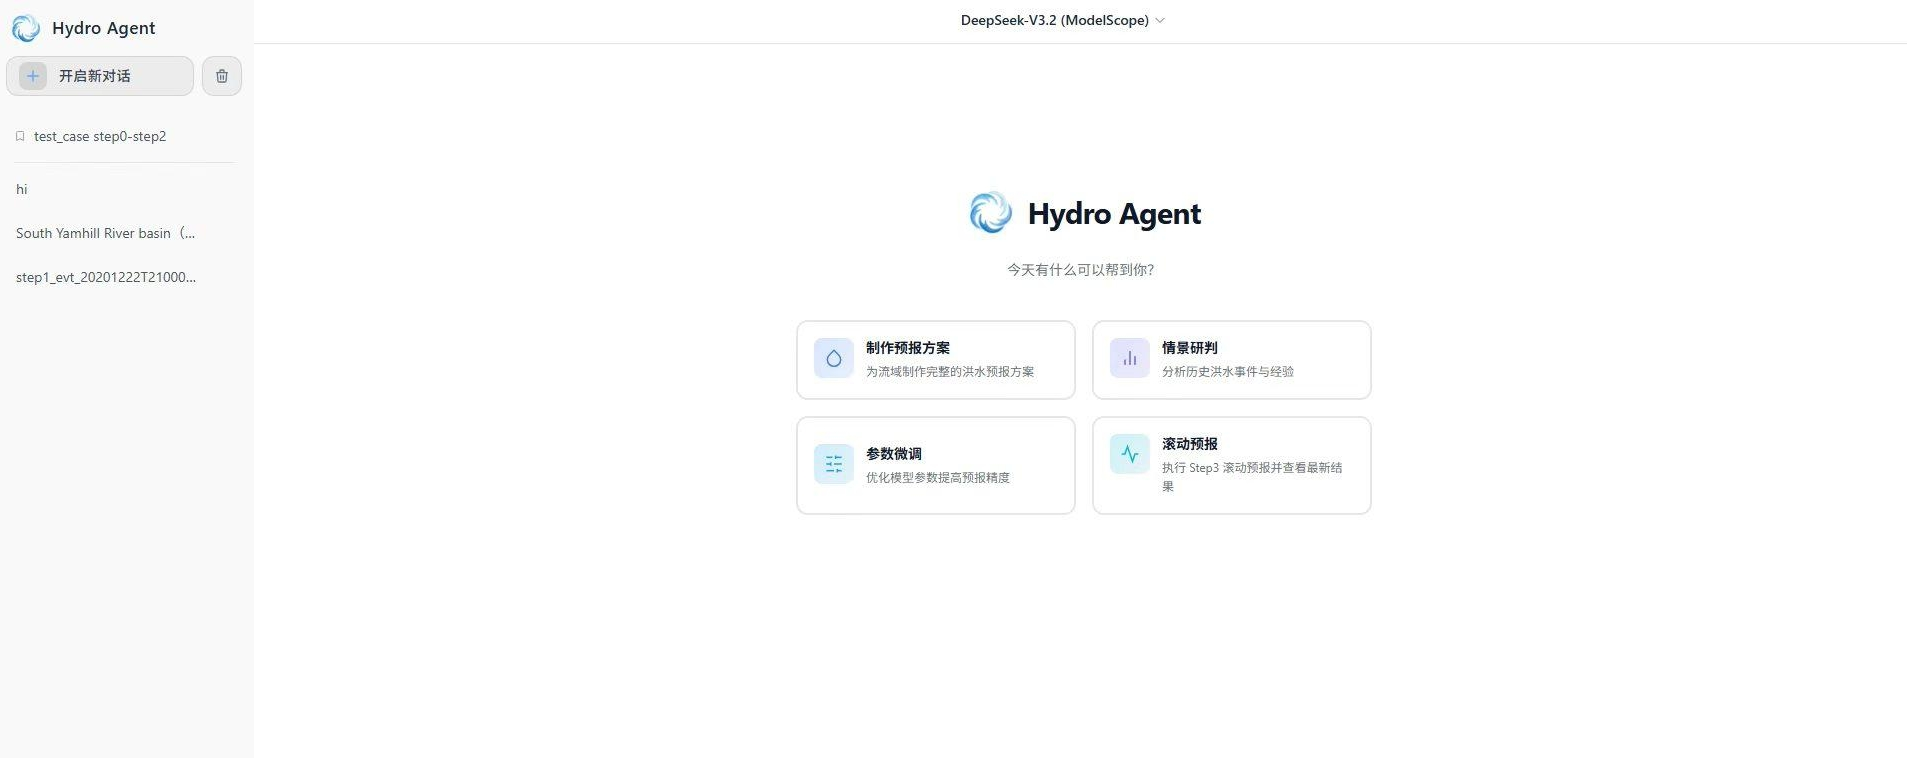
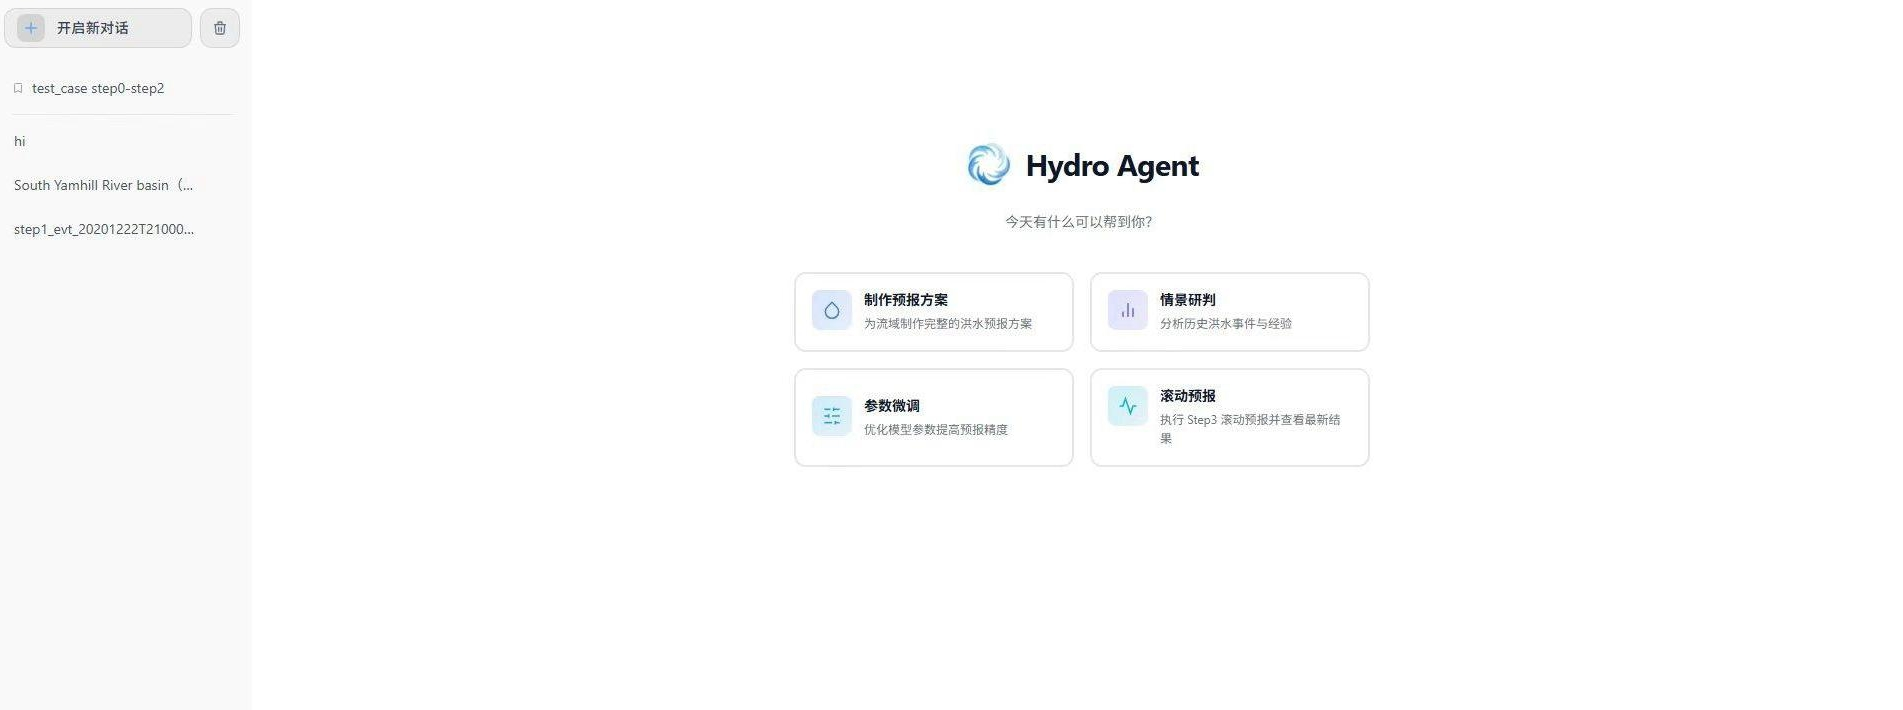
手机端hero区域demo位置

diff --git a/styles/hero.css b/styles/hero.css
@@ -311,23 +311,11 @@
 
 /* --- Responsive --- */
 @media (max-width: 900px) {
-  /* Same two-image composition as desktop: both .hero-video-bg and
-     .hero-bottom-bar inherit the base transforms (no mobile overrides),
-     so the layout matches the desktop hero. */
-
-  /* White scrim, strongest at the bottom where the text sits */
-  .brand-hero-scrim {
-    background: linear-gradient(
-      to top,
-      rgba(255, 255, 255, 0.95) 0%,
-      rgba(255, 255, 255, 0.8) 40%,
-      rgba(255, 255, 255, 0.4) 70%,
-      rgba(255, 255, 255, 0.15) 100%
-    );
-  }
-
+  /* Overlay layout: image as full-bleed background, buttons bottom-left,
+     the four function cards weighted to the right, and the left→right
+     gradient blur (inherited from base: scrim + .brand-hero::after). */
   .hero-copy {
-    padding: 0 14px 32px;
+    padding: 0 16px 40px;
     max-width: 100%;
   }
 
@@ -335,13 +323,15 @@
     font-size: 1.75rem;
   }
 
-  /* Shift both images left on mobile (base shifts them right for desktop) */
+  /* Scale up a touch; shift so the cards sit to the right of the buttons
+     and the bottom of the UI meets the buttons. */
   .hero-video-bg {
-    transform: scale(0.95) translateX(-5%);
+    transform: scale(1.15) translateX(12%) translateY(5%);
+    transform-origin: 30% center;
   }
 
   .hero-bottom-bar {
-    transform: scale(0.95) translateX(-3%) translateY(-25%);
+    transform: scale(1.15) translateX(12%) translateY(-25%);
   }
 
   .hero-video-tag {

diff --git a/WORKLOG.md b/WORKLOG.md
@@ -227,6 +227,20 @@ Hero 图片源 `webui_light.jpg` → `webui_black.jpg`。注意：左侧白色 s
 **Files modified:**
 - `styles/hero.css` — 移动端 hero-copy 内边距调整 + 两图 translateX 左移
 
+### 首页 Hero 手机端改为"文字在上、图在下"堆叠（同日修订）
+
+为消除"导航 symbol + Hero 标题 + 截图内品牌头"三重重复，手机端改为堆叠布局：`.hero-copy` `order:-1` 置顶（正常流、padding-top 留出 header 高度）；`.hero-video-bg` 与 `.hero-bottom-bar` 改为 `position:relative` 顺排块（natural aspect，两图相接拼回完整 UI 截图）；隐藏 scrim/`::after`/video-tag。桌面端不变。
+
+**Files modified:**
+- `styles/hero.css` — 移动端 Hero 改为文字在上、两图在下的堆叠布局
+
+### 首页 Hero 手机端改回叠加式 + 梯度模糊（同日修订）
+
+按需求手机端从堆叠改回叠加：图片满屏背景、按钮在左下、四卡片在右侧、左→右梯度模糊（scrim 与 .brand-hero::after 继承 base 自动生效）。两图 transform 稍放大并右移/下移：`.hero-video-bg` `scale(1.15) translateX(12%) translateY(5%)`、`.hero-bottom-bar` `scale(1.15) translateX(12%) translateY(-25%)`。
+
+**Files modified:**
+- `styles/hero.css` — 移动端 Hero 改回叠加式布局 + 两图 transform 微调
+
 ## 2026-06-24
 
 ### Events 页面排版重构